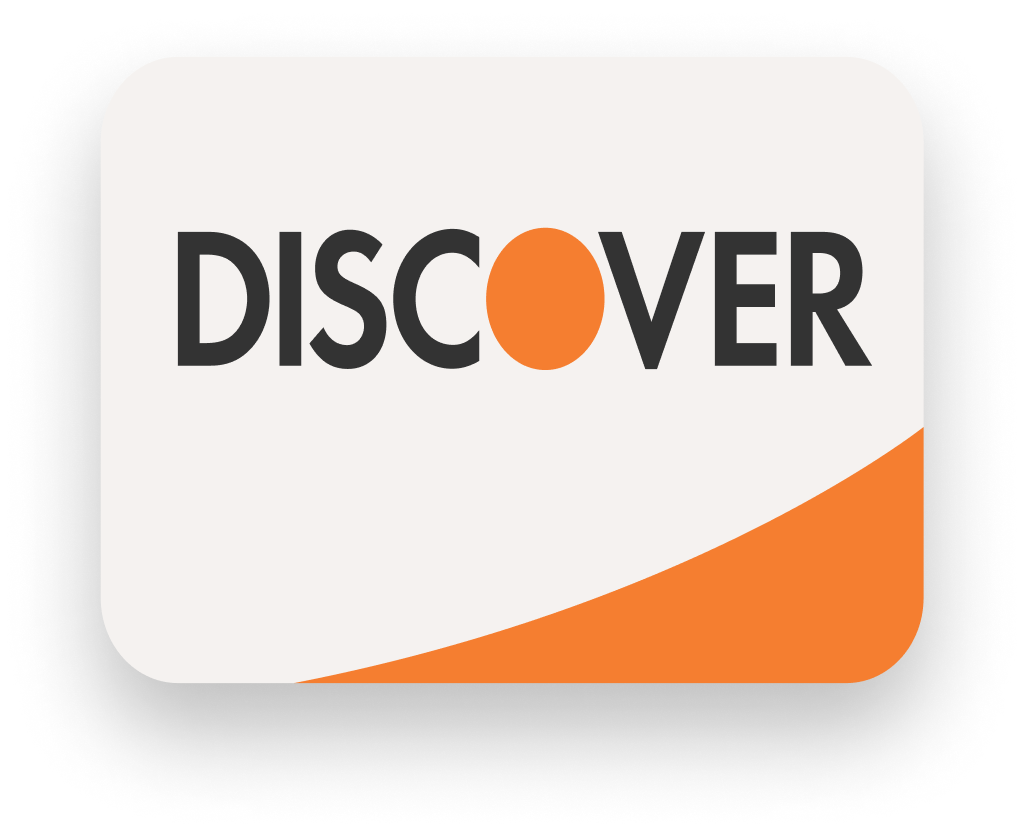
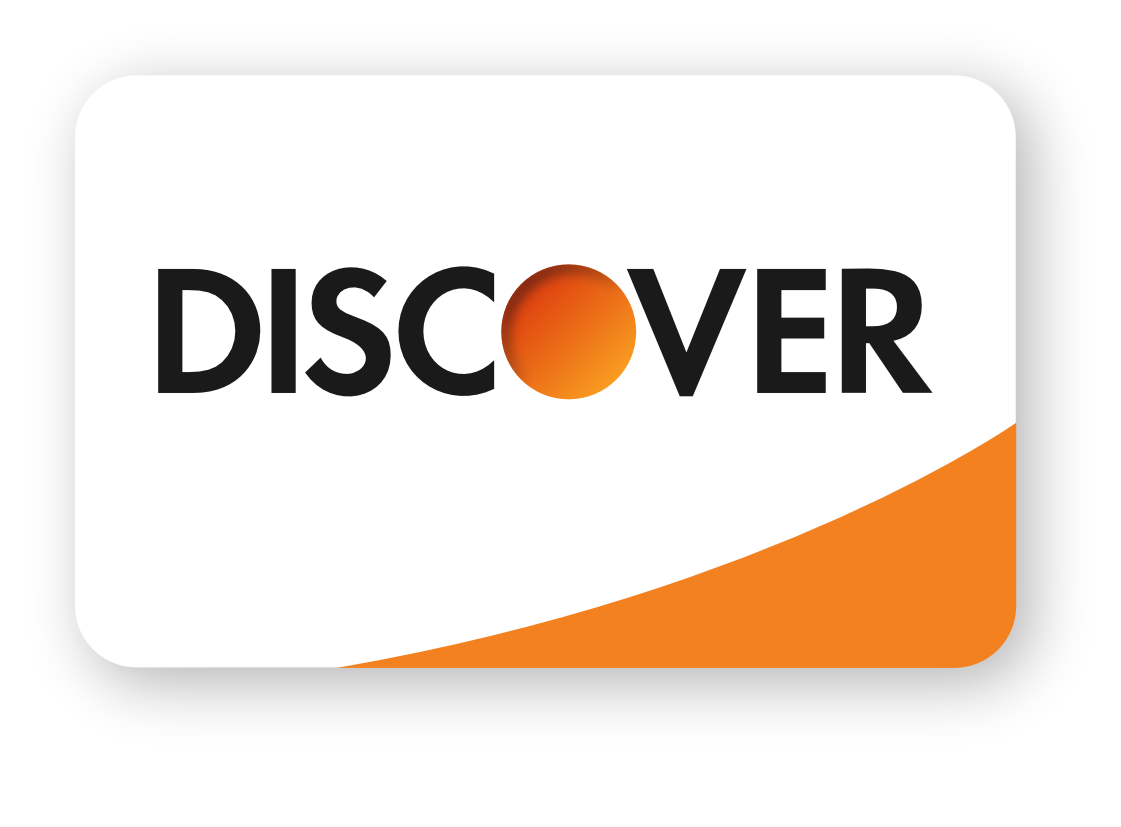
Update Footer on ALL pages
Updated ALL payment icons

diff --git a/index.html b/index.html
@@ -186,19 +186,19 @@
 					<div class="pay">
 						<img src="./assets/images/payments/cash.svg" alt="cash" class="payment2 cash">
 						<img src="./assets/images/payments/check-book(white).svg" alt="checks" class="payment2 checks">
-						<img src="./assets/images/payments/Visa.png" alt="Visa" class="ccard visa">
-						<img src="./assets/images/payments/Mastercard.png" alt="Mastercard" class="ccard">
-						<img src="./assets/images/payments/Amex.png" alt="American Express" class="ccard">
-						<img src="./assets/images/payments/Discover.png" alt="Discover" class="discover">
+						<img src="./assets/images/payments/visa2.png" alt="Visa" class="visa">
+						<img src="./assets/images/payments/mastercard2.png" alt="Mastercard" class="credit-card">
+						<img src="./assets/images/payments/amex2.png" alt="American Express" class="credit-card">
+						<img src="./assets/images/payments/discover2.png" alt="Discover" class="credit-card">
 					</div>
 					<div class="pay2">
 						<img src="./assets/images/payments/contactless_payment(white).svg" alt="contactless payments"
 								 class="contactless payment">
-						<img src="./assets/images/payments/Apple-Pay3.png" alt="Apple Pay" class="payment apple">
-						<img src="./assets/images/payments/Google%20Pay.png" alt="GPay" class="ccard gpay">
-						<img src="./assets/images/payments/Cash-App.png" alt="Cash-App" class="ccard cash-app">
-						<img src="./assets/images/payments/jcb-card.png" alt="JCB" class="ccard jcb">
-						<img src="./assets/images/payments/venmo.png" alt="Venmo" class="ccard venmo">
+						<img src="./assets/images/payments/Apple-Pay2.png" alt="Apple Pay" class="credit-card">
+						<img src="./assets/images/payments/Google-Pay2.png" alt="GPay" class="credit-card">
+						<img src="./assets/images/payments/Cash-App2.png" alt="Cash-App" class="credit-card cash-app">
+						<img src="./assets/images/payments/JCB2.png" alt="JCB" class="credit-card">
+						<img src="./assets/images/payments/venmo.png" alt="Venmo" class="credit-card">
 					</div>
 				</section>
 

diff --git a/oils.html b/oils.html
@@ -1395,19 +1395,19 @@
 				<div class="pay">
 					<img src="./assets/images/payments/cash.svg" alt="cash" class="payment2 cash">
 					<img src="./assets/images/payments/check-book(white).svg" alt="checks" class="payment2 checks">
-					<img src="./assets/images/payments/Visa.png" alt="Visa" class="ccard visa">
-					<img src="./assets/images/payments/Mastercard.png" alt="Mastercard" class="ccard">
-					<img src="./assets/images/payments/Amex.png" alt="American Express" class="ccard">
-					<img src="./assets/images/payments/Discover.png" alt="Discover" class="discover">
+					<img src="./assets/images/payments/visa2.png" alt="Visa" class="visa">
+					<img src="./assets/images/payments/mastercard2.png" alt="Mastercard" class="credit-card">
+					<img src="./assets/images/payments/amex2.png" alt="American Express" class="credit-card">
+					<img src="./assets/images/payments/discover2.png" alt="Discover" class="credit-card">
 				</div>
 				<div class="pay2">
 					<img src="./assets/images/payments/contactless_payment(white).svg" alt="contactless payments"
 							 class="contactless payment">
-					<img src="./assets/images/payments/Apple-Pay3.png" alt="Apple Pay" class="payment apple">
-					<img src="./assets/images/payments/Google%20Pay.png" alt="GPay" class="ccard gpay">
-					<img src="./assets/images/payments/Cash-App.png" alt="Cash-App" class="ccard cash-app">
-					<img src="./assets/images/payments/jcb-card.png" alt="JCB" class="ccard jcb">
-					<img src="./assets/images/payments/venmo.png" alt="Venmo" class="ccard venmo">
+					<img src="./assets/images/payments/Apple-Pay2.png" alt="Apple Pay" class="credit-card">
+					<img src="./assets/images/payments/Google-Pay2.png" alt="GPay" class="credit-card">
+					<img src="./assets/images/payments/Cash-App2.png" alt="Cash-App" class="credit-card cash-app">
+					<img src="./assets/images/payments/JCB2.png" alt="JCB" class="credit-card">
+					<img src="./assets/images/payments/venmo.png" alt="Venmo" class="credit-card">
 				</div>
 			</section>
 

diff --git a/aromatics.html b/aromatics.html
@@ -178,19 +178,19 @@
 				<div class="pay">
 					<img src="./assets/images/payments/cash.svg" alt="cash" class="payment2 cash">
 					<img src="./assets/images/payments/check-book(white).svg" alt="checks" class="payment2 checks">
-					<img src="./assets/images/payments/Visa.png" alt="Visa" class="ccard visa">
-					<img src="./assets/images/payments/Mastercard.png" alt="Mastercard" class="ccard">
-					<img src="./assets/images/payments/Amex.png" alt="American Express" class="ccard">
-					<img src="./assets/images/payments/Discover.png" alt="Discover" class="discover">
+					<img src="./assets/images/payments/visa2.png" alt="Visa" class="visa">
+					<img src="./assets/images/payments/mastercard2.png" alt="Mastercard" class="credit-card">
+					<img src="./assets/images/payments/amex2.png" alt="American Express" class="credit-card">
+					<img src="./assets/images/payments/discover2.png" alt="Discover" class="credit-card">
 				</div>
 				<div class="pay2">
 					<img src="./assets/images/payments/contactless_payment(white).svg" alt="contactless payments"
 							 class="contactless payment">
-					<img src="./assets/images/payments/Apple-Pay3.png" alt="Apple Pay" class="payment apple">
-					<img src="./assets/images/payments/Google%20Pay.png" alt="GPay" class="ccard gpay">
-					<img src="./assets/images/payments/Cash-App.png" alt="Cash-App" class="ccard cash-app">
-					<img src="./assets/images/payments/jcb-card.png" alt="JCB" class="ccard jcb">
-					<img src="./assets/images/payments/venmo.png" alt="Venmo" class="ccard venmo">
+					<img src="./assets/images/payments/Apple-Pay2.png" alt="Apple Pay" class="credit-card">
+					<img src="./assets/images/payments/Google-Pay2.png" alt="GPay" class="credit-card">
+					<img src="./assets/images/payments/Cash-App2.png" alt="Cash-App" class="credit-card cash-app">
+					<img src="./assets/images/payments/JCB2.png" alt="JCB" class="credit-card">
+					<img src="./assets/images/payments/venmo.png" alt="Venmo" class="credit-card">
 				</div>
 			</section>
 

diff --git a/bee-balm.html b/bee-balm.html
@@ -177,19 +177,19 @@
 				<div class="pay">
 					<img src="./assets/images/payments/cash.svg" alt="cash" class="payment2 cash">
 					<img src="./assets/images/payments/check-book(white).svg" alt="checks" class="payment2 checks">
-					<img src="./assets/images/payments/Visa.png" alt="Visa" class="ccard visa">
-					<img src="./assets/images/payments/Mastercard.png" alt="Mastercard" class="ccard">
-					<img src="./assets/images/payments/Amex.png" alt="American Express" class="ccard">
-					<img src="./assets/images/payments/Discover.png" alt="Discover" class="discover">
+					<img src="./assets/images/payments/visa2.png" alt="Visa" class="visa">
+					<img src="./assets/images/payments/mastercard2.png" alt="Mastercard" class="credit-card">
+					<img src="./assets/images/payments/amex2.png" alt="American Express" class="credit-card">
+					<img src="./assets/images/payments/discover2.png" alt="Discover" class="credit-card">
 				</div>
 				<div class="pay2">
 					<img src="./assets/images/payments/contactless_payment(white).svg" alt="contactless payments"
 							 class="contactless payment">
-					<img src="./assets/images/payments/Apple-Pay3.png" alt="Apple Pay" class="payment apple">
-					<img src="./assets/images/payments/Google%20Pay.png" alt="GPay" class="ccard gpay">
-					<img src="./assets/images/payments/Cash-App.png" alt="Cash-App" class="ccard cash-app">
-					<img src="./assets/images/payments/jcb-card.png" alt="JCB" class="ccard jcb">
-					<img src="./assets/images/payments/venmo.png" alt="Venmo" class="ccard venmo">
+					<img src="./assets/images/payments/Apple-Pay2.png" alt="Apple Pay" class="credit-card">
+					<img src="./assets/images/payments/Google-Pay2.png" alt="GPay" class="credit-card">
+					<img src="./assets/images/payments/Cash-App2.png" alt="Cash-App" class="credit-card cash-app">
+					<img src="./assets/images/payments/JCB2.png" alt="JCB" class="credit-card">
+					<img src="./assets/images/payments/venmo.png" alt="Venmo" class="credit-card">
 				</div>
 			</section>
 

diff --git a/carrier-oils.html b/carrier-oils.html
@@ -259,19 +259,19 @@
 				<div class="pay">
 					<img src="./assets/images/payments/cash.svg" alt="cash" class="payment2 cash">
 					<img src="./assets/images/payments/check-book(white).svg" alt="checks" class="payment2 checks">
-					<img src="./assets/images/payments/Visa.png" alt="Visa" class="ccard visa">
-					<img src="./assets/images/payments/Mastercard.png" alt="Mastercard" class="ccard">
-					<img src="./assets/images/payments/Amex.png" alt="American Express" class="ccard">
-					<img src="./assets/images/payments/Discover.png" alt="Discover" class="discover">
+					<img src="./assets/images/payments/visa2.png" alt="Visa" class="visa">
+					<img src="./assets/images/payments/mastercard2.png" alt="Mastercard" class="credit-card">
+					<img src="./assets/images/payments/amex2.png" alt="American Express" class="credit-card">
+					<img src="./assets/images/payments/discover2.png" alt="Discover" class="credit-card">
 				</div>
 				<div class="pay2">
 					<img src="./assets/images/payments/contactless_payment(white).svg" alt="contactless payments"
 							 class="contactless payment">
-					<img src="./assets/images/payments/Apple-Pay3.png" alt="Apple Pay" class="payment apple">
-					<img src="./assets/images/payments/Google%20Pay.png" alt="GPay" class="ccard gpay">
-					<img src="./assets/images/payments/Cash-App.png" alt="Cash-App" class="ccard cash-app">
-					<img src="./assets/images/payments/jcb-card.png" alt="JCB" class="ccard jcb">
-					<img src="./assets/images/payments/venmo.png" alt="Venmo" class="ccard venmo">
+					<img src="./assets/images/payments/Apple-Pay2.png" alt="Apple Pay" class="credit-card">
+					<img src="./assets/images/payments/Google-Pay2.png" alt="GPay" class="credit-card">
+					<img src="./assets/images/payments/Cash-App2.png" alt="Cash-App" class="credit-card cash-app">
+					<img src="./assets/images/payments/JCB2.png" alt="JCB" class="credit-card">
+					<img src="./assets/images/payments/venmo.png" alt="Venmo" class="credit-card">
 				</div>
 			</section>
 

diff --git a/contact.html b/contact.html
@@ -149,19 +149,19 @@
 				<div class="pay">
 					<img src="./assets/images/payments/cash.svg" alt="cash" class="payment2 cash">
 					<img src="./assets/images/payments/check-book(white).svg" alt="checks" class="payment2 checks">
-					<img src="./assets/images/payments/Visa.png" alt="Visa" class="ccard visa">
-					<img src="./assets/images/payments/Mastercard.png" alt="Mastercard" class="ccard">
-					<img src="./assets/images/payments/Amex.png" alt="American Express" class="ccard">
-					<img src="./assets/images/payments/Discover.png" alt="Discover" class="discover">
+					<img src="./assets/images/payments/visa2.png" alt="Visa" class="visa">
+					<img src="./assets/images/payments/mastercard2.png" alt="Mastercard" class="credit-card">
+					<img src="./assets/images/payments/amex2.png" alt="American Express" class="credit-card">
+					<img src="./assets/images/payments/discover2.png" alt="Discover" class="credit-card">
 				</div>
 				<div class="pay2">
 					<img src="./assets/images/payments/contactless_payment(white).svg" alt="contactless payments"
 							 class="contactless payment">
-					<img src="./assets/images/payments/Apple-Pay3.png" alt="Apple Pay" class="payment apple">
-					<img src="./assets/images/payments/Google%20Pay.png" alt="GPay" class="ccard gpay">
-					<img src="./assets/images/payments/Cash-App.png" alt="Cash-App" class="ccard cash-app">
-					<img src="./assets/images/payments/jcb-card.png" alt="JCB" class="ccard jcb">
-					<img src="./assets/images/payments/venmo.png" alt="Venmo" class="ccard venmo">
+					<img src="./assets/images/payments/Apple-Pay2.png" alt="Apple Pay" class="credit-card">
+					<img src="./assets/images/payments/Google-Pay2.png" alt="GPay" class="credit-card">
+					<img src="./assets/images/payments/Cash-App2.png" alt="Cash-App" class="credit-card cash-app">
+					<img src="./assets/images/payments/JCB2.png" alt="JCB" class="credit-card">
+					<img src="./assets/images/payments/venmo.png" alt="Venmo" class="credit-card">
 				</div>
 			</section>
 

diff --git a/diffusers.html b/diffusers.html
@@ -279,19 +279,19 @@
 				<div class="pay">
 					<img src="./assets/images/payments/cash.svg" alt="cash" class="payment2 cash">
 					<img src="./assets/images/payments/check-book(white).svg" alt="checks" class="payment2 checks">
-					<img src="./assets/images/payments/Visa.png" alt="Visa" class="ccard visa">
-					<img src="./assets/images/payments/Mastercard.png" alt="Mastercard" class="ccard">
-					<img src="./assets/images/payments/Amex.png" alt="American Express" class="ccard">
-					<img src="./assets/images/payments/Discover.png" alt="Discover" class="discover">
+					<img src="./assets/images/payments/visa2.png" alt="Visa" class="visa">
+					<img src="./assets/images/payments/mastercard2.png" alt="Mastercard" class="credit-card">
+					<img src="./assets/images/payments/amex2.png" alt="American Express" class="credit-card">
+					<img src="./assets/images/payments/discover2.png" alt="Discover" class="credit-card">
 				</div>
 				<div class="pay2">
 					<img src="./assets/images/payments/contactless_payment(white).svg" alt="contactless payments"
 							 class="contactless payment">
-					<img src="./assets/images/payments/Apple-Pay3.png" alt="Apple Pay" class="payment apple">
-					<img src="./assets/images/payments/Google%20Pay.png" alt="GPay" class="ccard gpay">
-					<img src="./assets/images/payments/Cash-App.png" alt="Cash-App" class="ccard cash-app">
-					<img src="./assets/images/payments/jcb-card.png" alt="JCB" class="ccard jcb">
-					<img src="./assets/images/payments/venmo.png" alt="Venmo" class="ccard venmo">
+					<img src="./assets/images/payments/Apple-Pay2.png" alt="Apple Pay" class="credit-card">
+					<img src="./assets/images/payments/Google-Pay2.png" alt="GPay" class="credit-card">
+					<img src="./assets/images/payments/Cash-App2.png" alt="Cash-App" class="credit-card cash-app">
+					<img src="./assets/images/payments/JCB2.png" alt="JCB" class="credit-card">
+					<img src="./assets/images/payments/venmo.png" alt="Venmo" class="credit-card">
 				</div>
 			</section>
 

diff --git a/eswbeauty.html b/eswbeauty.html
@@ -174,19 +174,19 @@
 				<div class="pay">
 					<img src="./assets/images/payments/cash.svg" alt="cash" class="payment2 cash">
 					<img src="./assets/images/payments/check-book(white).svg" alt="checks" class="payment2 checks">
-					<img src="./assets/images/payments/Visa.png" alt="Visa" class="ccard visa">
-					<img src="./assets/images/payments/Mastercard.png" alt="Mastercard" class="ccard">
-					<img src="./assets/images/payments/Amex.png" alt="American Express" class="ccard">
-					<img src="./assets/images/payments/Discover.png" alt="Discover" class="discover">
+					<img src="./assets/images/payments/visa2.png" alt="Visa" class="visa">
+					<img src="./assets/images/payments/mastercard2.png" alt="Mastercard" class="credit-card">
+					<img src="./assets/images/payments/amex2.png" alt="American Express" class="credit-card">
+					<img src="./assets/images/payments/discover2.png" alt="Discover" class="credit-card">
 				</div>
 				<div class="pay2">
 					<img src="./assets/images/payments/contactless_payment(white).svg" alt="contactless payments"
 							 class="contactless payment">
-					<img src="./assets/images/payments/Apple-Pay3.png" alt="Apple Pay" class="payment apple">
-					<img src="./assets/images/payments/Google%20Pay.png" alt="GPay" class="ccard gpay">
-					<img src="./assets/images/payments/Cash-App.png" alt="Cash-App" class="ccard cash-app">
-					<img src="./assets/images/payments/jcb-card.png" alt="JCB" class="ccard jcb">
-					<img src="./assets/images/payments/venmo.png" alt="Venmo" class="ccard venmo">
+					<img src="./assets/images/payments/Apple-Pay2.png" alt="Apple Pay" class="credit-card">
+					<img src="./assets/images/payments/Google-Pay2.png" alt="GPay" class="credit-card">
+					<img src="./assets/images/payments/Cash-App2.png" alt="Cash-App" class="credit-card cash-app">
+					<img src="./assets/images/payments/JCB2.png" alt="JCB" class="credit-card">
+					<img src="./assets/images/payments/venmo.png" alt="Venmo" class="credit-card">
 				</div>
 			</section>
 

diff --git a/facial-tools.html b/facial-tools.html
@@ -179,19 +179,19 @@
 				<div class="pay">
 					<img src="./assets/images/payments/cash.svg" alt="cash" class="payment2 cash">
 					<img src="./assets/images/payments/check-book(white).svg" alt="checks" class="payment2 checks">
-					<img src="./assets/images/payments/Visa.png" alt="Visa" class="ccard visa">
-					<img src="./assets/images/payments/Mastercard.png" alt="Mastercard" class="ccard">
-					<img src="./assets/images/payments/Amex.png" alt="American Express" class="ccard">
-					<img src="./assets/images/payments/Discover.png" alt="Discover" class="discover">
+					<img src="./assets/images/payments/visa2.png" alt="Visa" class="visa">
+					<img src="./assets/images/payments/mastercard2.png" alt="Mastercard" class="credit-card">
+					<img src="./assets/images/payments/amex2.png" alt="American Express" class="credit-card">
+					<img src="./assets/images/payments/discover2.png" alt="Discover" class="credit-card">
 				</div>
 				<div class="pay2">
 					<img src="./assets/images/payments/contactless_payment(white).svg" alt="contactless payments"
 							 class="contactless payment">
-					<img src="./assets/images/payments/Apple-Pay3.png" alt="Apple Pay" class="payment apple">
-					<img src="./assets/images/payments/Google%20Pay.png" alt="GPay" class="ccard gpay">
-					<img src="./assets/images/payments/Cash-App.png" alt="Cash-App" class="ccard cash-app">
-					<img src="./assets/images/payments/jcb-card.png" alt="JCB" class="ccard jcb">
-					<img src="./assets/images/payments/venmo.png" alt="Venmo" class="ccard venmo">
+					<img src="./assets/images/payments/Apple-Pay2.png" alt="Apple Pay" class="credit-card">
+					<img src="./assets/images/payments/Google-Pay2.png" alt="GPay" class="credit-card">
+					<img src="./assets/images/payments/Cash-App2.png" alt="Cash-App" class="credit-card cash-app">
+					<img src="./assets/images/payments/JCB2.png" alt="JCB" class="credit-card">
+					<img src="./assets/images/payments/venmo.png" alt="Venmo" class="credit-card">
 				</div>
 			</section>
 

diff --git a/faq.html b/faq.html
@@ -371,19 +371,19 @@
 				<div class="pay">
 					<img src="./assets/images/payments/cash.svg" alt="cash" class="payment2 cash">
 					<img src="./assets/images/payments/check-book(white).svg" alt="checks" class="payment2 checks">
-					<img src="./assets/images/payments/Visa.png" alt="Visa" class="ccard visa">
-					<img src="./assets/images/payments/Mastercard.png" alt="Mastercard" class="ccard">
-					<img src="./assets/images/payments/Amex.png" alt="American Express" class="ccard">
-					<img src="./assets/images/payments/Discover.png" alt="Discover" class="discover">
+					<img src="./assets/images/payments/visa2.png" alt="Visa" class="visa">
+					<img src="./assets/images/payments/mastercard2.png" alt="Mastercard" class="credit-card">
+					<img src="./assets/images/payments/amex2.png" alt="American Express" class="credit-card">
+					<img src="./assets/images/payments/discover2.png" alt="Discover" class="credit-card">
 				</div>
 				<div class="pay2">
 					<img src="./assets/images/payments/contactless_payment(white).svg" alt="contactless payments"
 							 class="contactless payment">
-					<img src="./assets/images/payments/Apple-Pay3.png" alt="Apple Pay" class="payment apple">
-					<img src="./assets/images/payments/Google%20Pay.png" alt="GPay" class="ccard gpay">
-					<img src="./assets/images/payments/Cash-App.png" alt="Cash-App" class="ccard cash-app">
-					<img src="./assets/images/payments/jcb-card.png" alt="JCB" class="ccard jcb">
-					<img src="./assets/images/payments/venmo.png" alt="Venmo" class="ccard venmo">
+					<img src="./assets/images/payments/Apple-Pay2.png" alt="Apple Pay" class="credit-card">
+					<img src="./assets/images/payments/Google-Pay2.png" alt="GPay" class="credit-card">
+					<img src="./assets/images/payments/Cash-App2.png" alt="Cash-App" class="credit-card cash-app">
+					<img src="./assets/images/payments/JCB2.png" alt="JCB" class="credit-card">
+					<img src="./assets/images/payments/venmo.png" alt="Venmo" class="credit-card">
 				</div>
 			</section>
 

diff --git a/himalayan-salt-products.html b/himalayan-salt-products.html
@@ -358,19 +358,19 @@
 				<div class="pay">
 					<img src="./assets/images/payments/cash.svg" alt="cash" class="payment2 cash">
 					<img src="./assets/images/payments/check-book(white).svg" alt="checks" class="payment2 checks">
-					<img src="./assets/images/payments/Visa.png" alt="Visa" class="ccard visa">
-					<img src="./assets/images/payments/Mastercard.png" alt="Mastercard" class="ccard">
-					<img src="./assets/images/payments/Amex.png" alt="American Express" class="ccard">
-					<img src="./assets/images/payments/Discover.png" alt="Discover" class="discover">
+					<img src="./assets/images/payments/visa2.png" alt="Visa" class="visa">
+					<img src="./assets/images/payments/mastercard2.png" alt="Mastercard" class="credit-card">
+					<img src="./assets/images/payments/amex2.png" alt="American Express" class="credit-card">
+					<img src="./assets/images/payments/discover2.png" alt="Discover" class="credit-card">
 				</div>
 				<div class="pay2">
 					<img src="./assets/images/payments/contactless_payment(white).svg" alt="contactless payments"
 							 class="contactless payment">
-					<img src="./assets/images/payments/Apple-Pay3.png" alt="Apple Pay" class="payment apple">
-					<img src="./assets/images/payments/Google%20Pay.png" alt="GPay" class="ccard gpay">
-					<img src="./assets/images/payments/Cash-App.png" alt="Cash-App" class="ccard cash-app">
-					<img src="./assets/images/payments/jcb-card.png" alt="JCB" class="ccard jcb">
-					<img src="./assets/images/payments/venmo.png" alt="Venmo" class="ccard venmo">
+					<img src="./assets/images/payments/Apple-Pay2.png" alt="Apple Pay" class="credit-card">
+					<img src="./assets/images/payments/Google-Pay2.png" alt="GPay" class="credit-card">
+					<img src="./assets/images/payments/Cash-App2.png" alt="Cash-App" class="credit-card cash-app">
+					<img src="./assets/images/payments/JCB2.png" alt="JCB" class="credit-card">
+					<img src="./assets/images/payments/venmo.png" alt="Venmo" class="credit-card">
 				</div>
 			</section>
 

diff --git a/hydrosols.html b/hydrosols.html
@@ -467,19 +467,19 @@
 				<div class="pay">
 					<img src="./assets/images/payments/cash.svg" alt="cash" class="payment2 cash">
 					<img src="./assets/images/payments/check-book(white).svg" alt="checks" class="payment2 checks">
-					<img src="./assets/images/payments/Visa.png" alt="Visa" class="ccard visa">
-					<img src="./assets/images/payments/Mastercard.png" alt="Mastercard" class="ccard">
-					<img src="./assets/images/payments/Amex.png" alt="American Express" class="ccard">
-					<img src="./assets/images/payments/Discover.png" alt="Discover" class="discover">
+					<img src="./assets/images/payments/visa2.png" alt="Visa" class="visa">
+					<img src="./assets/images/payments/mastercard2.png" alt="Mastercard" class="credit-card">
+					<img src="./assets/images/payments/amex2.png" alt="American Express" class="credit-card">
+					<img src="./assets/images/payments/discover2.png" alt="Discover" class="credit-card">
 				</div>
 				<div class="pay2">
 					<img src="./assets/images/payments/contactless_payment(white).svg" alt="contactless payments"
 							 class="contactless payment">
-					<img src="./assets/images/payments/Apple-Pay3.png" alt="Apple Pay" class="payment apple">
-					<img src="./assets/images/payments/Google%20Pay.png" alt="GPay" class="ccard gpay">
-					<img src="./assets/images/payments/Cash-App.png" alt="Cash-App" class="ccard cash-app">
-					<img src="./assets/images/payments/jcb-card.png" alt="JCB" class="ccard jcb">
-					<img src="./assets/images/payments/venmo.png" alt="Venmo" class="ccard venmo">
+					<img src="./assets/images/payments/Apple-Pay2.png" alt="Apple Pay" class="credit-card">
+					<img src="./assets/images/payments/Google-Pay2.png" alt="GPay" class="credit-card">
+					<img src="./assets/images/payments/Cash-App2.png" alt="Cash-App" class="credit-card cash-app">
+					<img src="./assets/images/payments/JCB2.png" alt="JCB" class="credit-card">
+					<img src="./assets/images/payments/venmo.png" alt="Venmo" class="credit-card">
 				</div>
 			</section>
 
